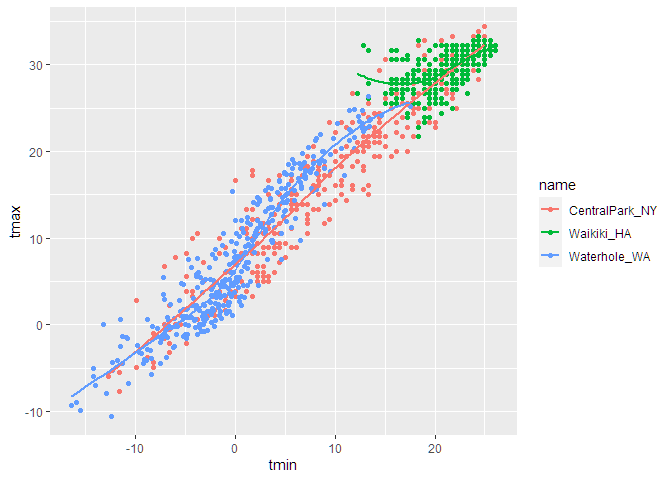
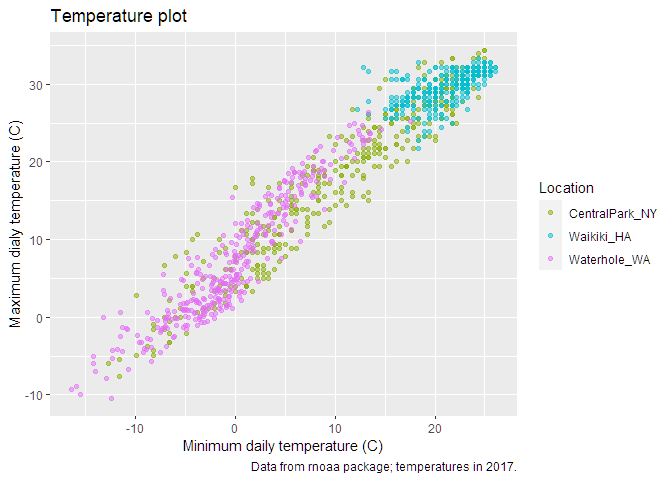
scales

diff --git a/viz_ii.md b/viz_ii.md
@@ -108,3 +108,100 @@ weather_df %>%
     ## Warning: Removed 15 rows containing missing values (geom_point).
 
 ![](viz_ii_files/figure-gfm/unnamed-chunk-3-1.png)<!-- -->
+
+## Scales
+
+Start with the same plot; x and y scales.
+
+``` r
+weather_df %>% 
+  ggplot(aes(x = tmin, y = tmax, color = name)) +
+  geom_point(alpha = 0.5) +
+  labs(
+    title = "Temperature plot",
+    x = "Minimum daily temperature (C)",
+    y = "Maximum dialy temperature (C)",
+    caption = "Data from rnoaa package; temperatures in 2017."
+  ) +
+  scale_x_continuous(
+    breaks = c(-15, 0, 15),
+    labels = c("-15 C","0","15")
+  ) + 
+  scale_y_continuous(
+    trans = "sqrt"
+  )
+```
+
+    ## Warning in self$trans$transform(x): NaNs produced
+
+    ## Warning: Transformation introduced infinite values in continuous y-axis
+
+    ## Warning: Removed 90 rows containing missing values (geom_point).
+
+![](viz_ii_files/figure-gfm/unnamed-chunk-4-1.png)<!-- -->
+
+``` r
+weather_df %>% 
+  ggplot(aes(x = tmin, y = tmax, color = name)) +
+  geom_point(alpha = 0.5) +
+  labs(
+    title = "Temperature plot",
+    x = "Minimum daily temperature (C)",
+    y = "Maximum dialy temperature (C)",
+    caption = "Data from rnoaa package; temperatures in 2017."
+  ) +
+  scale_x_continuous(
+    breaks = c(-15, 0, 15),
+    labels = c("-15 C","0","15")
+  ) + 
+  scale_y_continuous(
+    position = "right"
+  )
+```
+
+    ## Warning: Removed 15 rows containing missing values (geom_point).
+
+![](viz_ii_files/figure-gfm/unnamed-chunk-5-1.png)<!-- -->
+
+Look at color scales
+
+``` r
+weather_df %>% 
+  ggplot(aes(x = tmin, y = tmax, color = name)) +
+  geom_point(alpha = 0.5) +
+  labs(
+    title = "Temperature plot",
+    x = "Minimum daily temperature (C)",
+    y = "Maximum dialy temperature (C)",
+    caption = "Data from rnoaa package; temperatures in 2017."
+  ) +
+  scale_color_hue(
+    name = "Location",
+    h = c(100,300)
+  )
+```
+
+    ## Warning: Removed 15 rows containing missing values (geom_point).
+
+![](viz_ii_files/figure-gfm/unnamed-chunk-6-1.png)<!-- -->
+
+Using viridis default is useful
+
+``` r
+weather_df %>% 
+  ggplot(aes(x = tmin, y = tmax, color = name)) +
+  geom_point(alpha = 0.5) +
+  labs(
+    title = "Temperature plot",
+    x = "Minimum daily temperature (C)",
+    y = "Maximum dialy temperature (C)",
+    caption = "Data from rnoaa package; temperatures in 2017."
+  ) +
+  viridis::scale_color_viridis(
+    name = "Location",
+    discrete = TRUE)
+```
+
+    ## Warning: Removed 15 rows containing missing values (geom_point).
+
+![](viz_ii_files/figure-gfm/unnamed-chunk-7-1.png)<!-- -->
